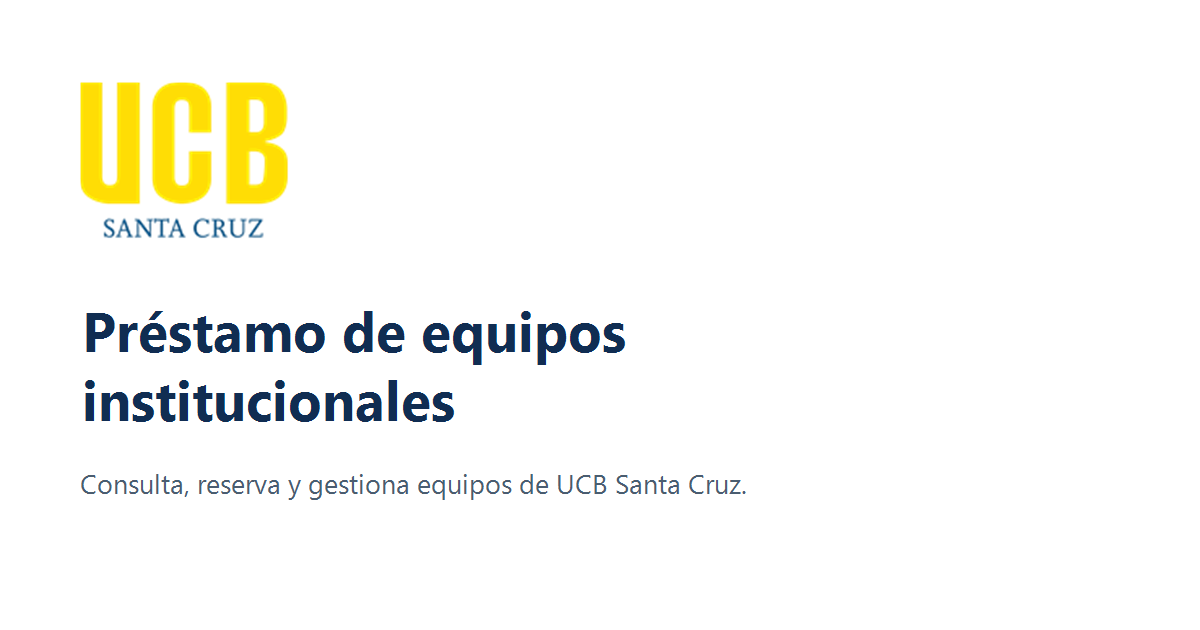
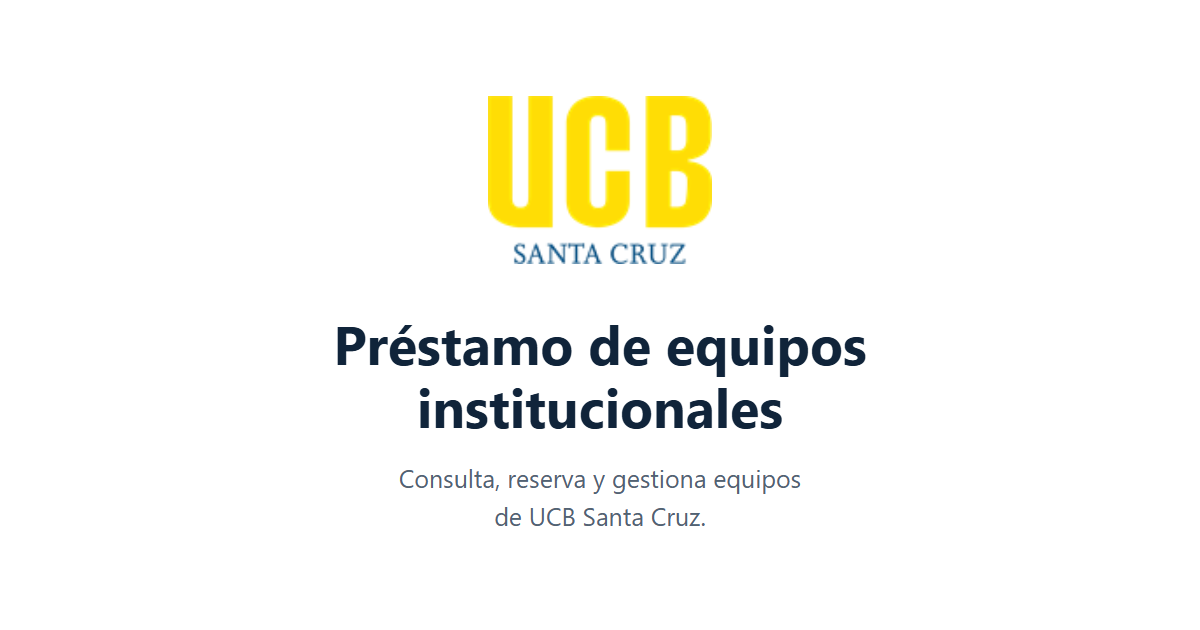
style(social): centrar tarjeta institucional

diff --git a/code/client/tools/social-cover.html b/code/client/tools/social-cover.html
@@ -1,0 +1,48 @@
+<!doctype html>
+<html lang="es">
+  <head>
+    <meta charset="utf-8" />
+    <title>Tarjeta institucional</title>
+    <style>
+      * {
+        box-sizing: border-box;
+      }
+      body {
+        margin: 0;
+        width: 1200px;
+        height: 630px;
+        display: flex;
+        flex-direction: column;
+        align-items: center;
+        justify-content: center;
+        background: #fff;
+        color: #10243a;
+        font-family: "Segoe UI", Arial, sans-serif;
+        text-align: center;
+        letter-spacing: 0;
+      }
+      img {
+        width: 224px;
+        height: 168px;
+        object-fit: contain;
+      }
+      h1 {
+        margin: 48px 0 22px;
+        font-size: 54px;
+        line-height: 1.16;
+        font-weight: 700;
+      }
+      p {
+        margin: 0;
+        color: #526273;
+        font-size: 25px;
+        line-height: 1.5;
+      }
+    </style>
+  </head>
+  <body>
+    <img src="../public/assets/logo_universidad.png" alt="UCB Santa Cruz" />
+    <h1>Préstamo de equipos<br />institucionales</h1>
+    <p>Consulta, reserva y gestiona equipos<br />de UCB Santa Cruz.</p>
+  </body>
+</html>
